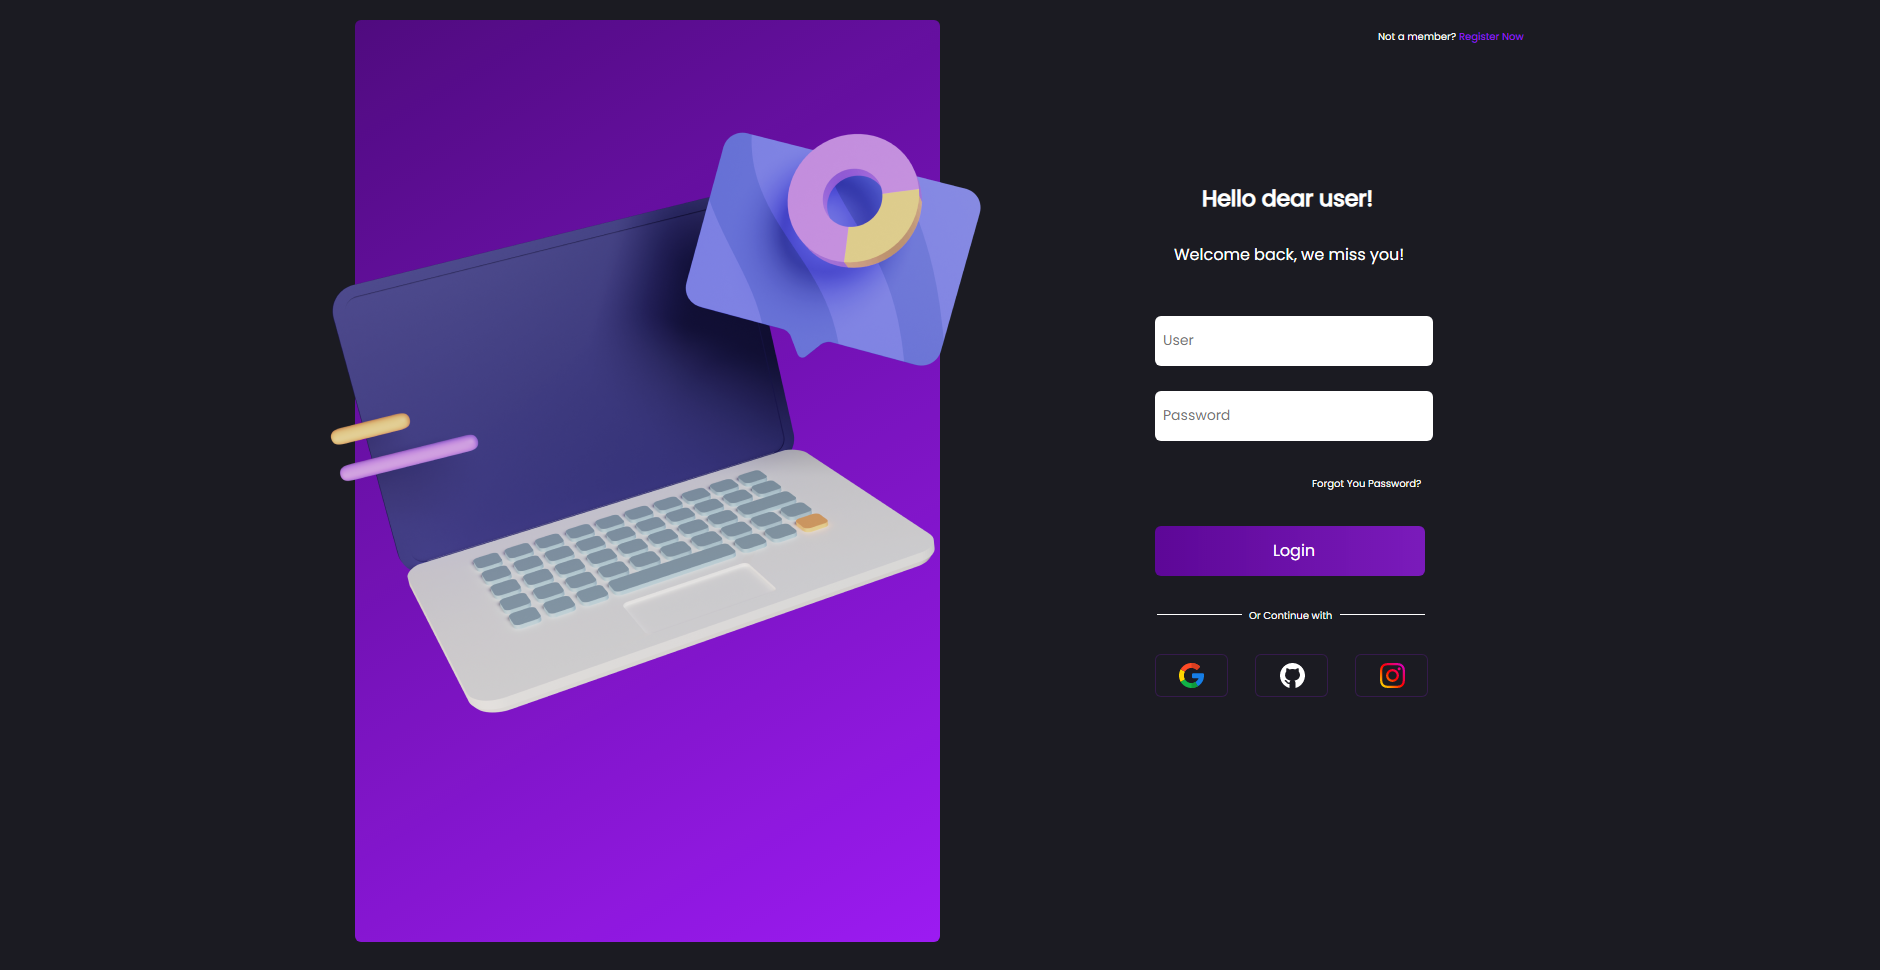
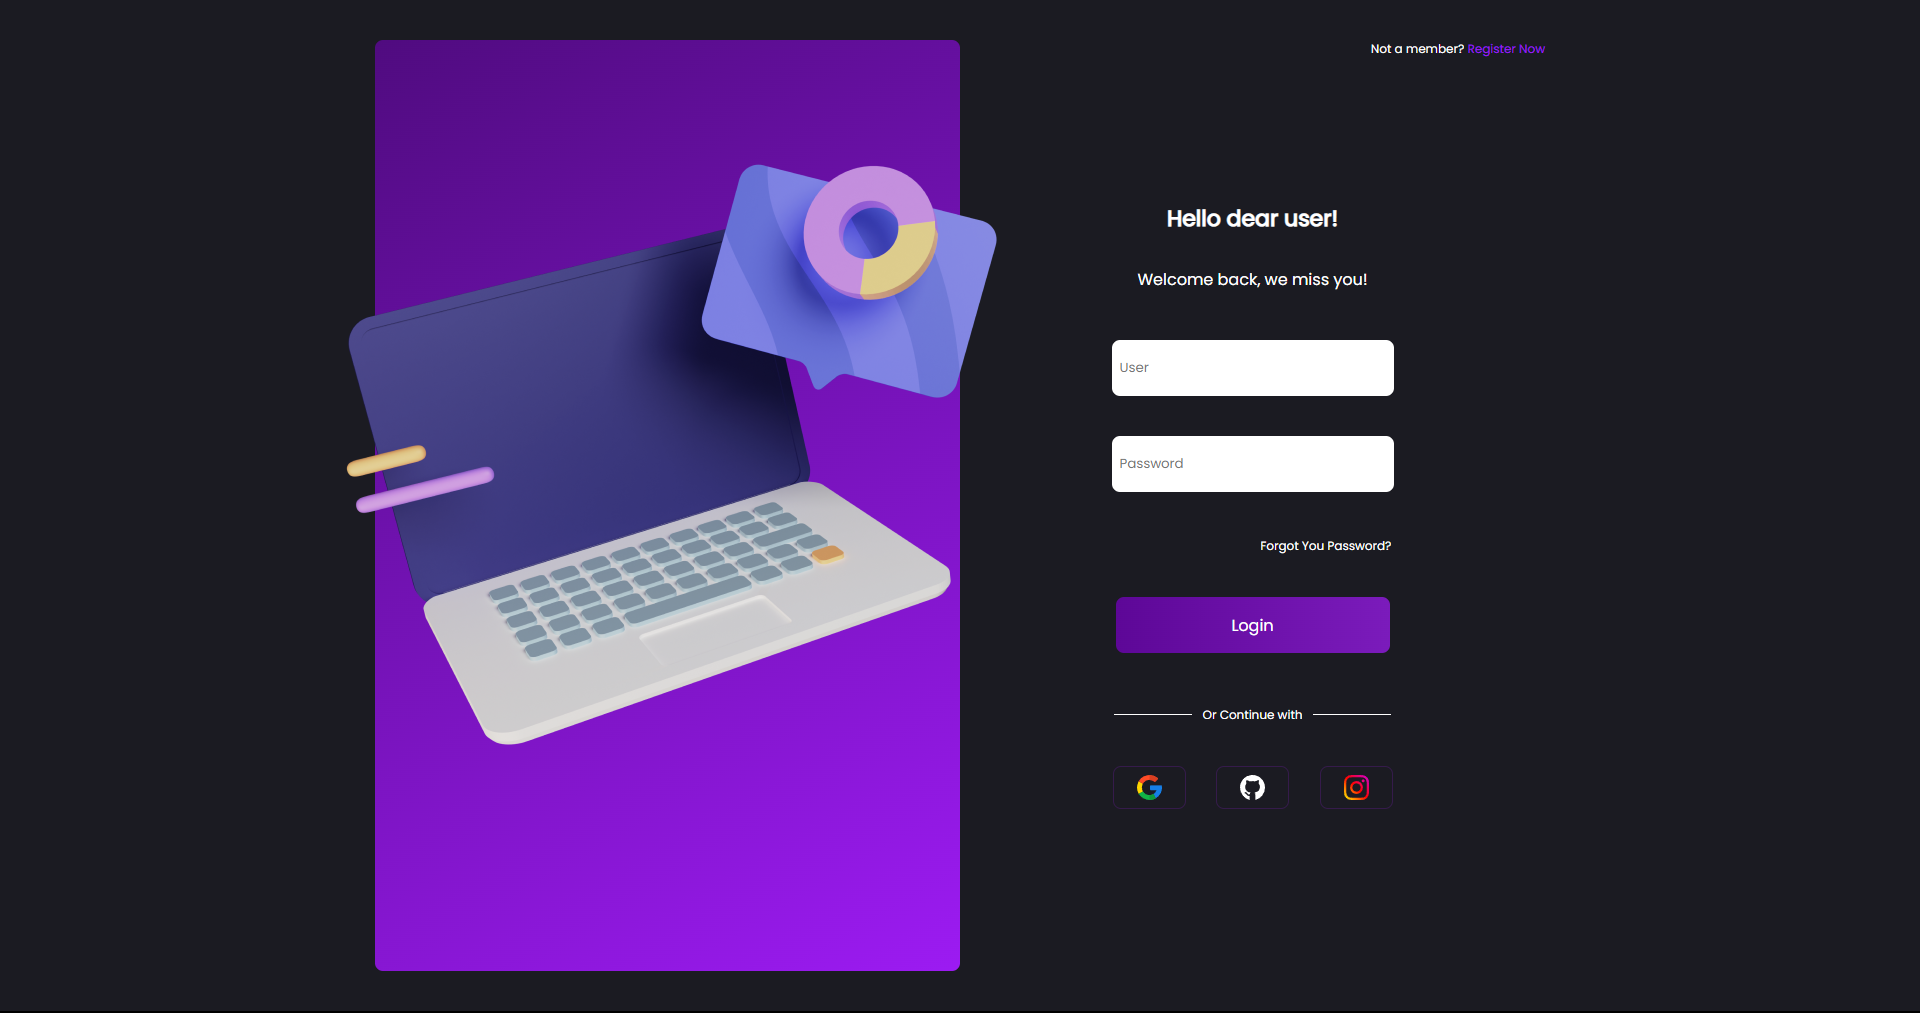
Final Version

diff --git a/assets/styles/style.scss b/assets/styles/style.scss
@@ -1,12 +1,4 @@
-// Variáveis
-
-$bg: #1B1B22;
-$purple_font: #9C1BF2;
-$gradient_1: linear-gradient(149.55deg, rgba(93, 7, 151, 0.8) 0%, #9C1BF2 100%);
-$gradient_2: linear-gradient(90deg, #5D0797 -0.56%, rgba(147, 27, 226, 0.8) 100%);
-$white: #FFF;
-$border: 1.5px solid rgba(156, 27, 242, 0.2);
-$box: 0px 0px 24px 4px rgba(156, 27, 242, 0.2);
+@import "_variables.scss";
 
 * {
     margin: 0;
@@ -16,10 +8,10 @@ $box: 0px 0px 24px 4px rgba(156, 27, 242, 0.2);
 }
 
 body {
-    background-color: $bg;
-    max-width: 1170px;
     margin: auto;
+    max-width: 1170px;
     height: 100vh;
+    background-color: $bg;
 }
 
 .container {
@@ -39,8 +31,6 @@ body {
         border-radius: 8px;
         background: $gradient_1;
 
-        // display: flex;
-        // align-items: center;
         img {
             position: absolute;
             top: 40px;
@@ -60,16 +50,16 @@ body {
         color: $white;
 
         .register {
-            margin-top: 4vh;
             position: absolute;
+            margin-top: 4vh;
             right: 0;
             top: 0;
             font-size: 10px;
             cursor: default;
 
             span {
-                color: $purple_font;
                 cursor: pointer;
+                color: $purple_font;
             }
         }
 
@@ -93,10 +83,10 @@ body {
             margin: 48px 0 40px 0;
 
             input {
+                padding-left: 8px;
                 max-width: 274px;
                 width: 100%;
                 height: 56px;
-                padding-left: 8px;
                 border-radius: 8px;
                 outline: none;
             }
@@ -109,6 +99,7 @@ body {
         .forgot {
             width: 312px;
             text-align: right;
+            cursor: pointer;
         }
 
         .button-login {
@@ -117,42 +108,40 @@ body {
             button {
                 width: 274px;
                 height: 56px;
-                background: $gradient_2;
                 font-size: 16px;
-                color: $white;
                 border-radius: 8px;
+                cursor: pointer;
+                background: $gradient_2;
+                color: $white;
             }
         }
 
         .another-login {
             .btn:hover {
                 border: 0;
-                transition: ease-out 0.8s;
                 box-shadow: $box;
+                transition: ease-out 0.8s;
             }
 
             a:first-child {
                 position: relative;
+                cursor: default;
             }
 
-            a::before {
-                position: absolute;
-                width: 78px;
-                height: 1px;
-                right: 110px; //98+12
-                content: "";
-                background: $white;
-                top: 8px;
-            }
-
+            a::before,
             a::after {
                 position: absolute;
                 width: 78px;
-                left: 110px;
                 height: 1px;
+                top: 8px;
+                right: 110px; //98+12
                 content: "";
                 background: $white;
-                top: 8px;
+            }
+
+            a::after {
+                right: 0;
+                left: 110px;
             }
 
             .btn_another-login {
@@ -166,17 +155,21 @@ body {
                 }
 
                 .btn {
-                    margin-top: 40px;
                     display: flex;
                     width: 70px;
                     height: 40px;
+                    margin-top: 40px;
                     border: $border;
                     border-radius: 8px;
                     align-items: center;
                     justify-content: center;
-                    a, img {
+                    cursor: pointer;
+
+                    a,
+                    img {
                         width: 25px;
                         height: 25px;
+                        cursor: pointer;
                     }
                 }
             }
@@ -193,8 +186,8 @@ body {
         }
 
         .container-right {
-            width: 100%;
+            margin: auto;
+            width: 90%;
         }
     }
-
 }

diff --git a/assets/styles/style.css b/assets/styles/style.css
@@ -6,10 +6,10 @@
 }
 
 body {
-  background-color: #1B1B22;
-  max-width: 1170px;
   margin: auto;
+  max-width: 1170px;
   height: 100vh;
+  background-color: #1B1B22;
 }
 
 .container {
@@ -64,8 +64,8 @@ body {
 }
 
 .container .container-right .register {
-  margin-top: 4vh;
   position: absolute;
+  margin-top: 4vh;
   right: 0;
   top: 0;
   font-size: 10px;
@@ -73,8 +73,8 @@ body {
 }
 
 .container .container-right .register span {
-  color: #9C1BF2;
   cursor: pointer;
+  color: #9C1BF2;
 }
 
 .container .container-right a {
@@ -98,10 +98,10 @@ body {
 }
 
 .container .container-right .input input {
+  padding-left: 8px;
   max-width: 274px;
   width: 100%;
   height: 56px;
-  padding-left: 8px;
   border-radius: 8px;
   outline: none;
 }
@@ -113,6 +113,7 @@ body {
 .container .container-right .forgot {
   width: 312px;
   text-align: right;
+  cursor: pointer;
 }
 
 .container .container-right .button-login {
@@ -122,43 +123,41 @@ body {
 .container .container-right .button-login button {
   width: 274px;
   height: 56px;
+  font-size: 16px;
+  border-radius: 8px;
+  cursor: pointer;
   background: -webkit-gradient(linear, left top, right top, color-stop(-0.56%, #5D0797), to(rgba(147, 27, 226, 0.8)));
   background: linear-gradient(90deg, #5D0797 -0.56%, rgba(147, 27, 226, 0.8) 100%);
-  font-size: 16px;
   color: #FFF;
-  border-radius: 8px;
 }
 
 .container .container-right .another-login .btn:hover {
   border: 0;
-  -webkit-transition: ease-out 0.8s;
-  transition: ease-out 0.8s;
   -webkit-box-shadow: 0px 0px 24px 4px rgba(156, 27, 242, 0.2);
           box-shadow: 0px 0px 24px 4px rgba(156, 27, 242, 0.2);
+  -webkit-transition: ease-out 0.8s;
+  transition: ease-out 0.8s;
 }
 
 .container .container-right .another-login a:first-child {
   position: relative;
+  cursor: default;
 }
 
-.container .container-right .another-login a::before {
-  position: absolute;
-  width: 78px;
-  height: 1px;
-  right: 110px;
-  content: "";
-  background: #FFF;
-  top: 8px;
-}
-
+.container .container-right .another-login a::before,
 .container .container-right .another-login a::after {
   position: absolute;
   width: 78px;
-  left: 110px;
   height: 1px;
+  top: 8px;
+  right: 110px;
   content: "";
   background: #FFF;
-  top: 8px;
+}
+
+.container .container-right .another-login a::after {
+  right: 0;
+  left: 110px;
 }
 
 .container .container-right .another-login .btn_another-login {
@@ -177,12 +176,12 @@ body {
 }
 
 .container .container-right .another-login .btn_another-login .btn {
-  margin-top: 40px;
   display: -webkit-box;
   display: -ms-flexbox;
   display: flex;
   width: 70px;
   height: 40px;
+  margin-top: 40px;
   border: 1.5px solid rgba(156, 27, 242, 0.2);
   border-radius: 8px;
   -webkit-box-align: center;
@@ -191,11 +190,14 @@ body {
   -webkit-box-pack: center;
       -ms-flex-pack: center;
           justify-content: center;
+  cursor: pointer;
 }
 
-.container .container-right .another-login .btn_another-login .btn a, .container .container-right .another-login .btn_another-login .btn img {
+.container .container-right .another-login .btn_another-login .btn a,
+.container .container-right .another-login .btn_another-login .btn img {
   width: 25px;
   height: 25px;
+  cursor: pointer;
 }
 
 @media (max-width: 1169px) {
@@ -203,7 +205,8 @@ body {
     display: none;
   }
   .container .container-right {
-    width: 100%;
+    margin: auto;
+    width: 90%;
   }
 }
 /*# sourceMappingURL=style.css.map */

diff --git a/assets/styles/_variables.scss b/assets/styles/_variables.scss
@@ -1,0 +1,9 @@
+// Variáveis
+
+$bg: #1B1B22;
+$purple_font: #9C1BF2;
+$gradient_1: linear-gradient(149.55deg, rgba(93, 7, 151, 0.8) 0%, #9C1BF2 100%);
+$gradient_2: linear-gradient(90deg, #5D0797 -0.56%, rgba(147, 27, 226, 0.8) 100%);
+$white: #FFF;
+$border: 1.5px solid rgba(156, 27, 242, 0.2);
+$box: 0px 0px 24px 4px rgba(156, 27, 242, 0.2);

diff --git a/README.md b/README.md
@@ -1,8 +1,16 @@
 # Login_UI
-Pra finalizar os estudos durante as férias, fiz o design de uma landing no Figma e depois codei utilizando HTMl e SCSS.
+Atualização de uma landing page de login (07/2021-05/2022), visando a melhoria na estrutura do scss, a aplicação do flex e o responsivo.
 <p align="center">
 <img src="assets/img/landing_ui.png">
 <p>
+
+## Responsivo
+Considerando que a atualização foi feita completamente usando flexbox, a responsividade já vem praticamente pronta, sendo necessários menos de 10 linhas de código para o ajuste.
+<img src="assets/img/landing_ui-r.png">
+
+## Motivo da atualização
+Demonstrar as habilidades adquiridas durante esse período e manter um padrão de código.
+A versão antiga se localiza na branch 'old', neste <a href="https://github.com/UlissesJunior/Login_UI/tree/old" target="_blank" >link</a>
 
 ## Demo
 Para testar acesse o link: 
